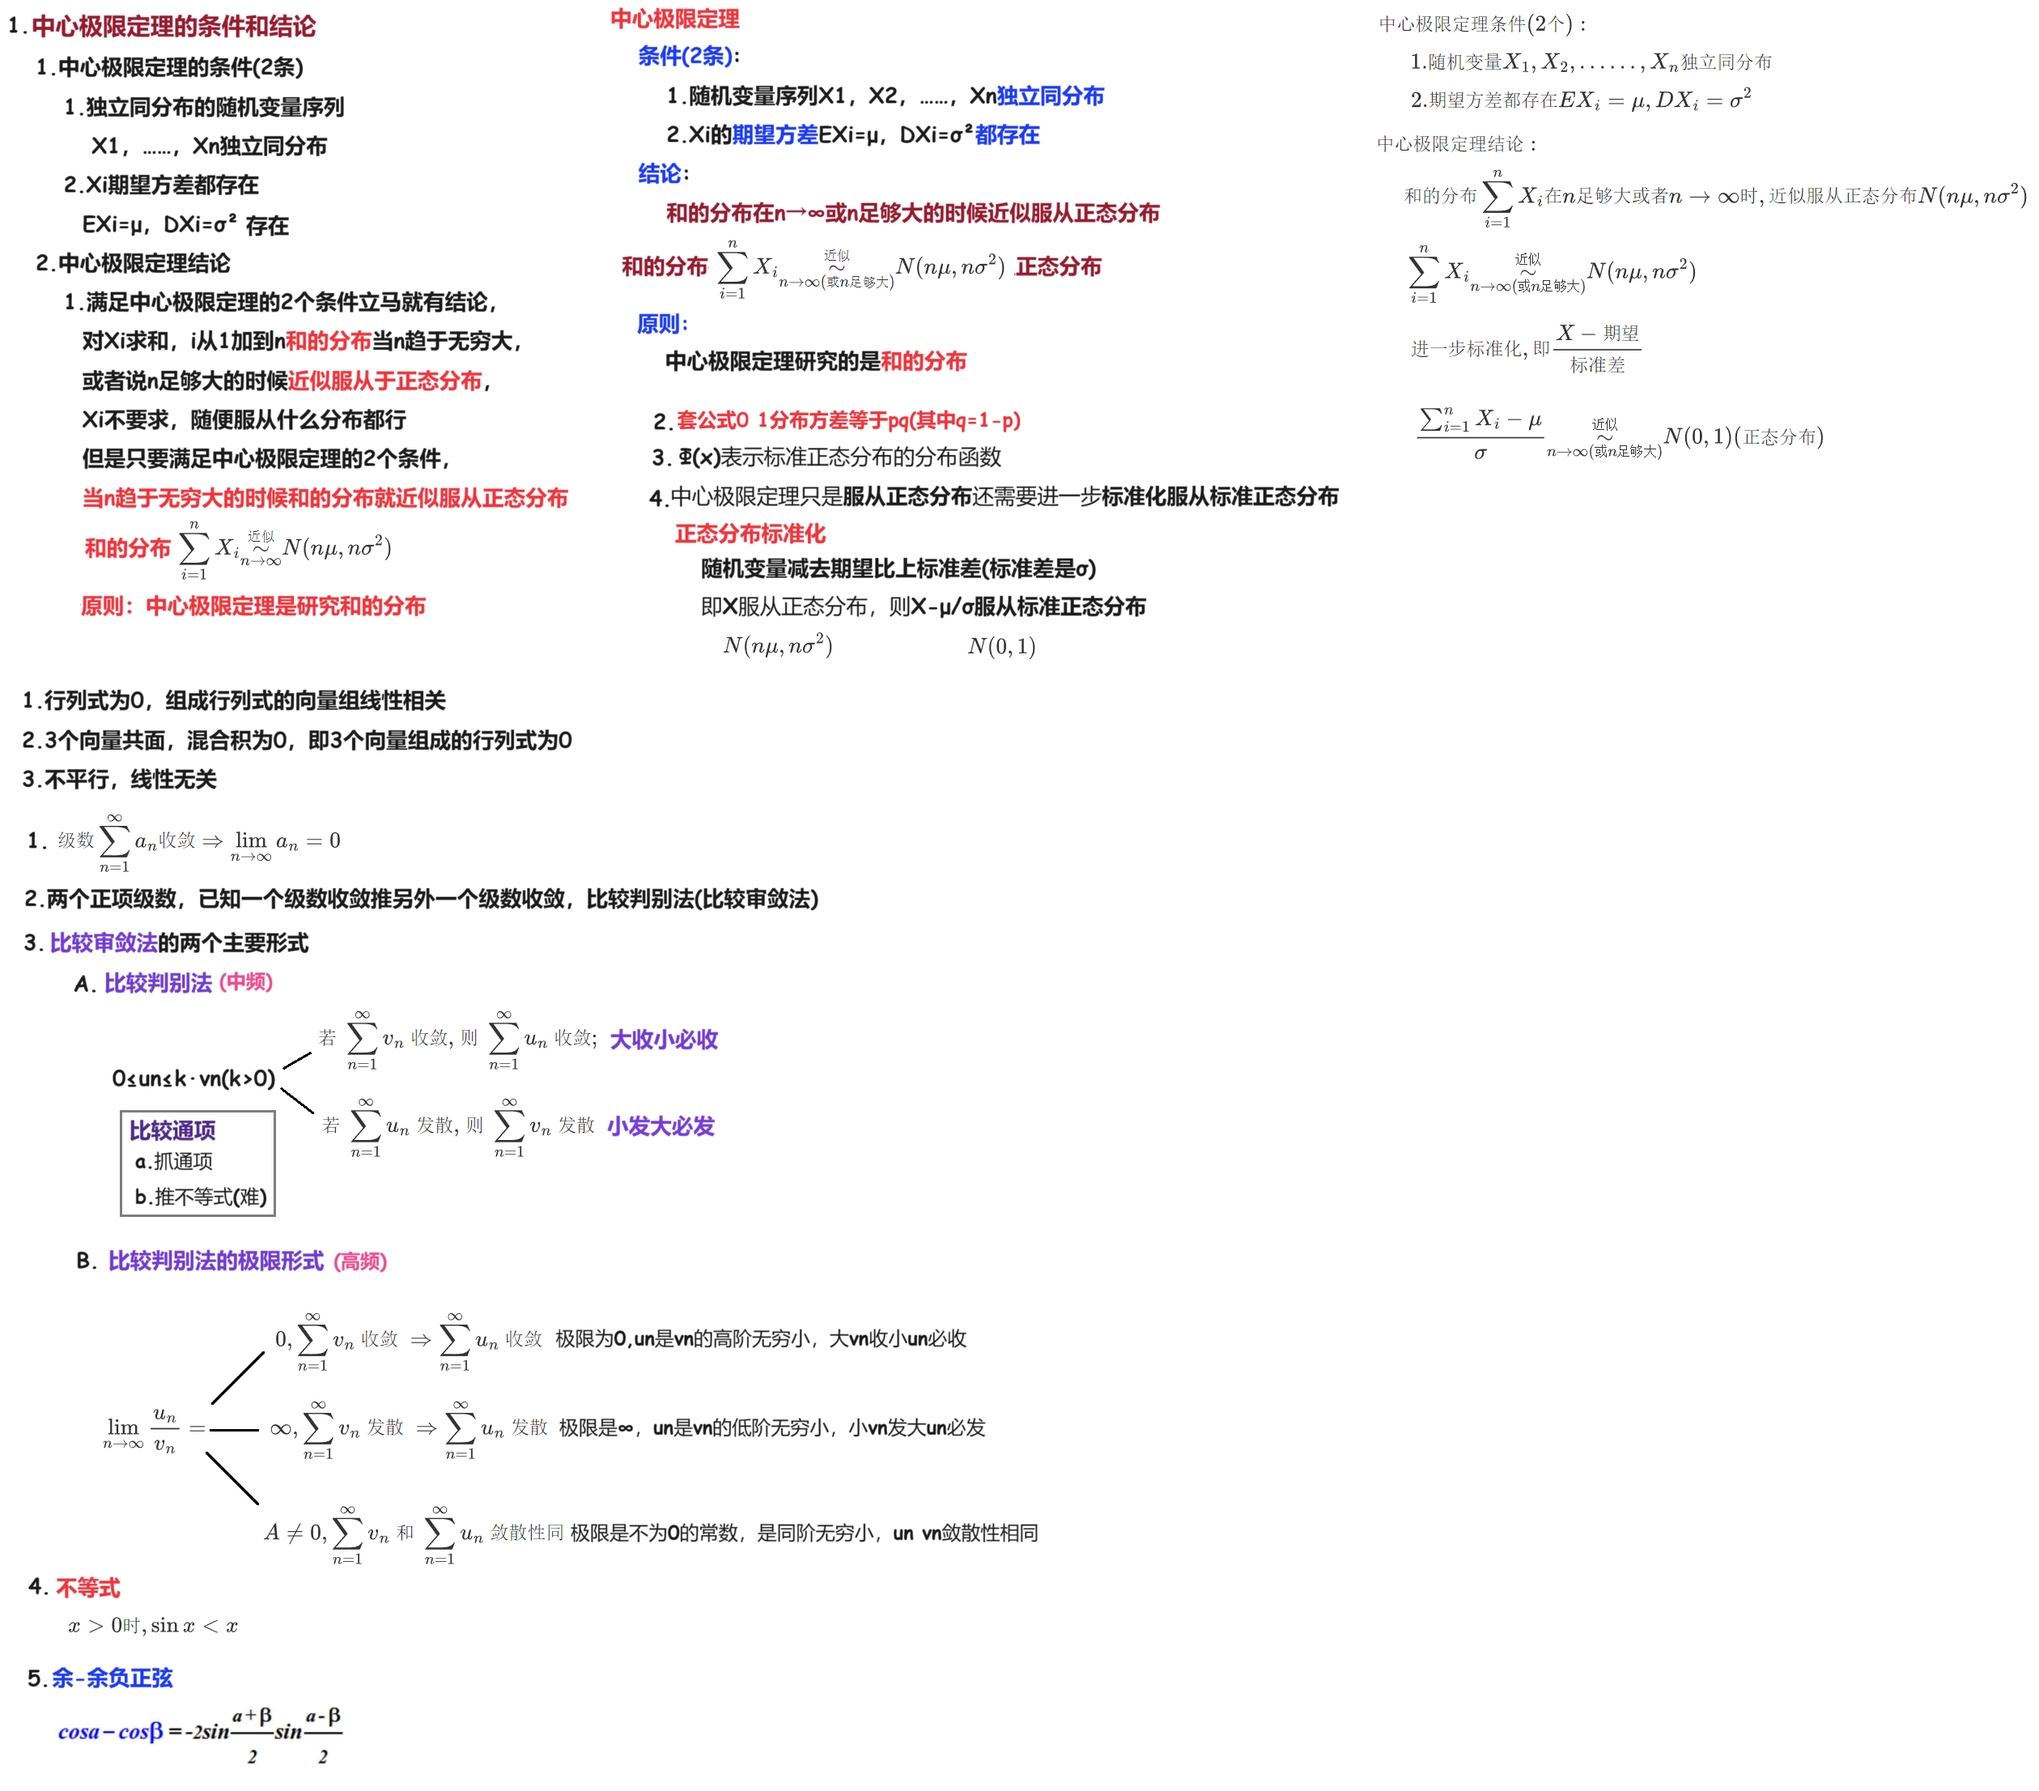
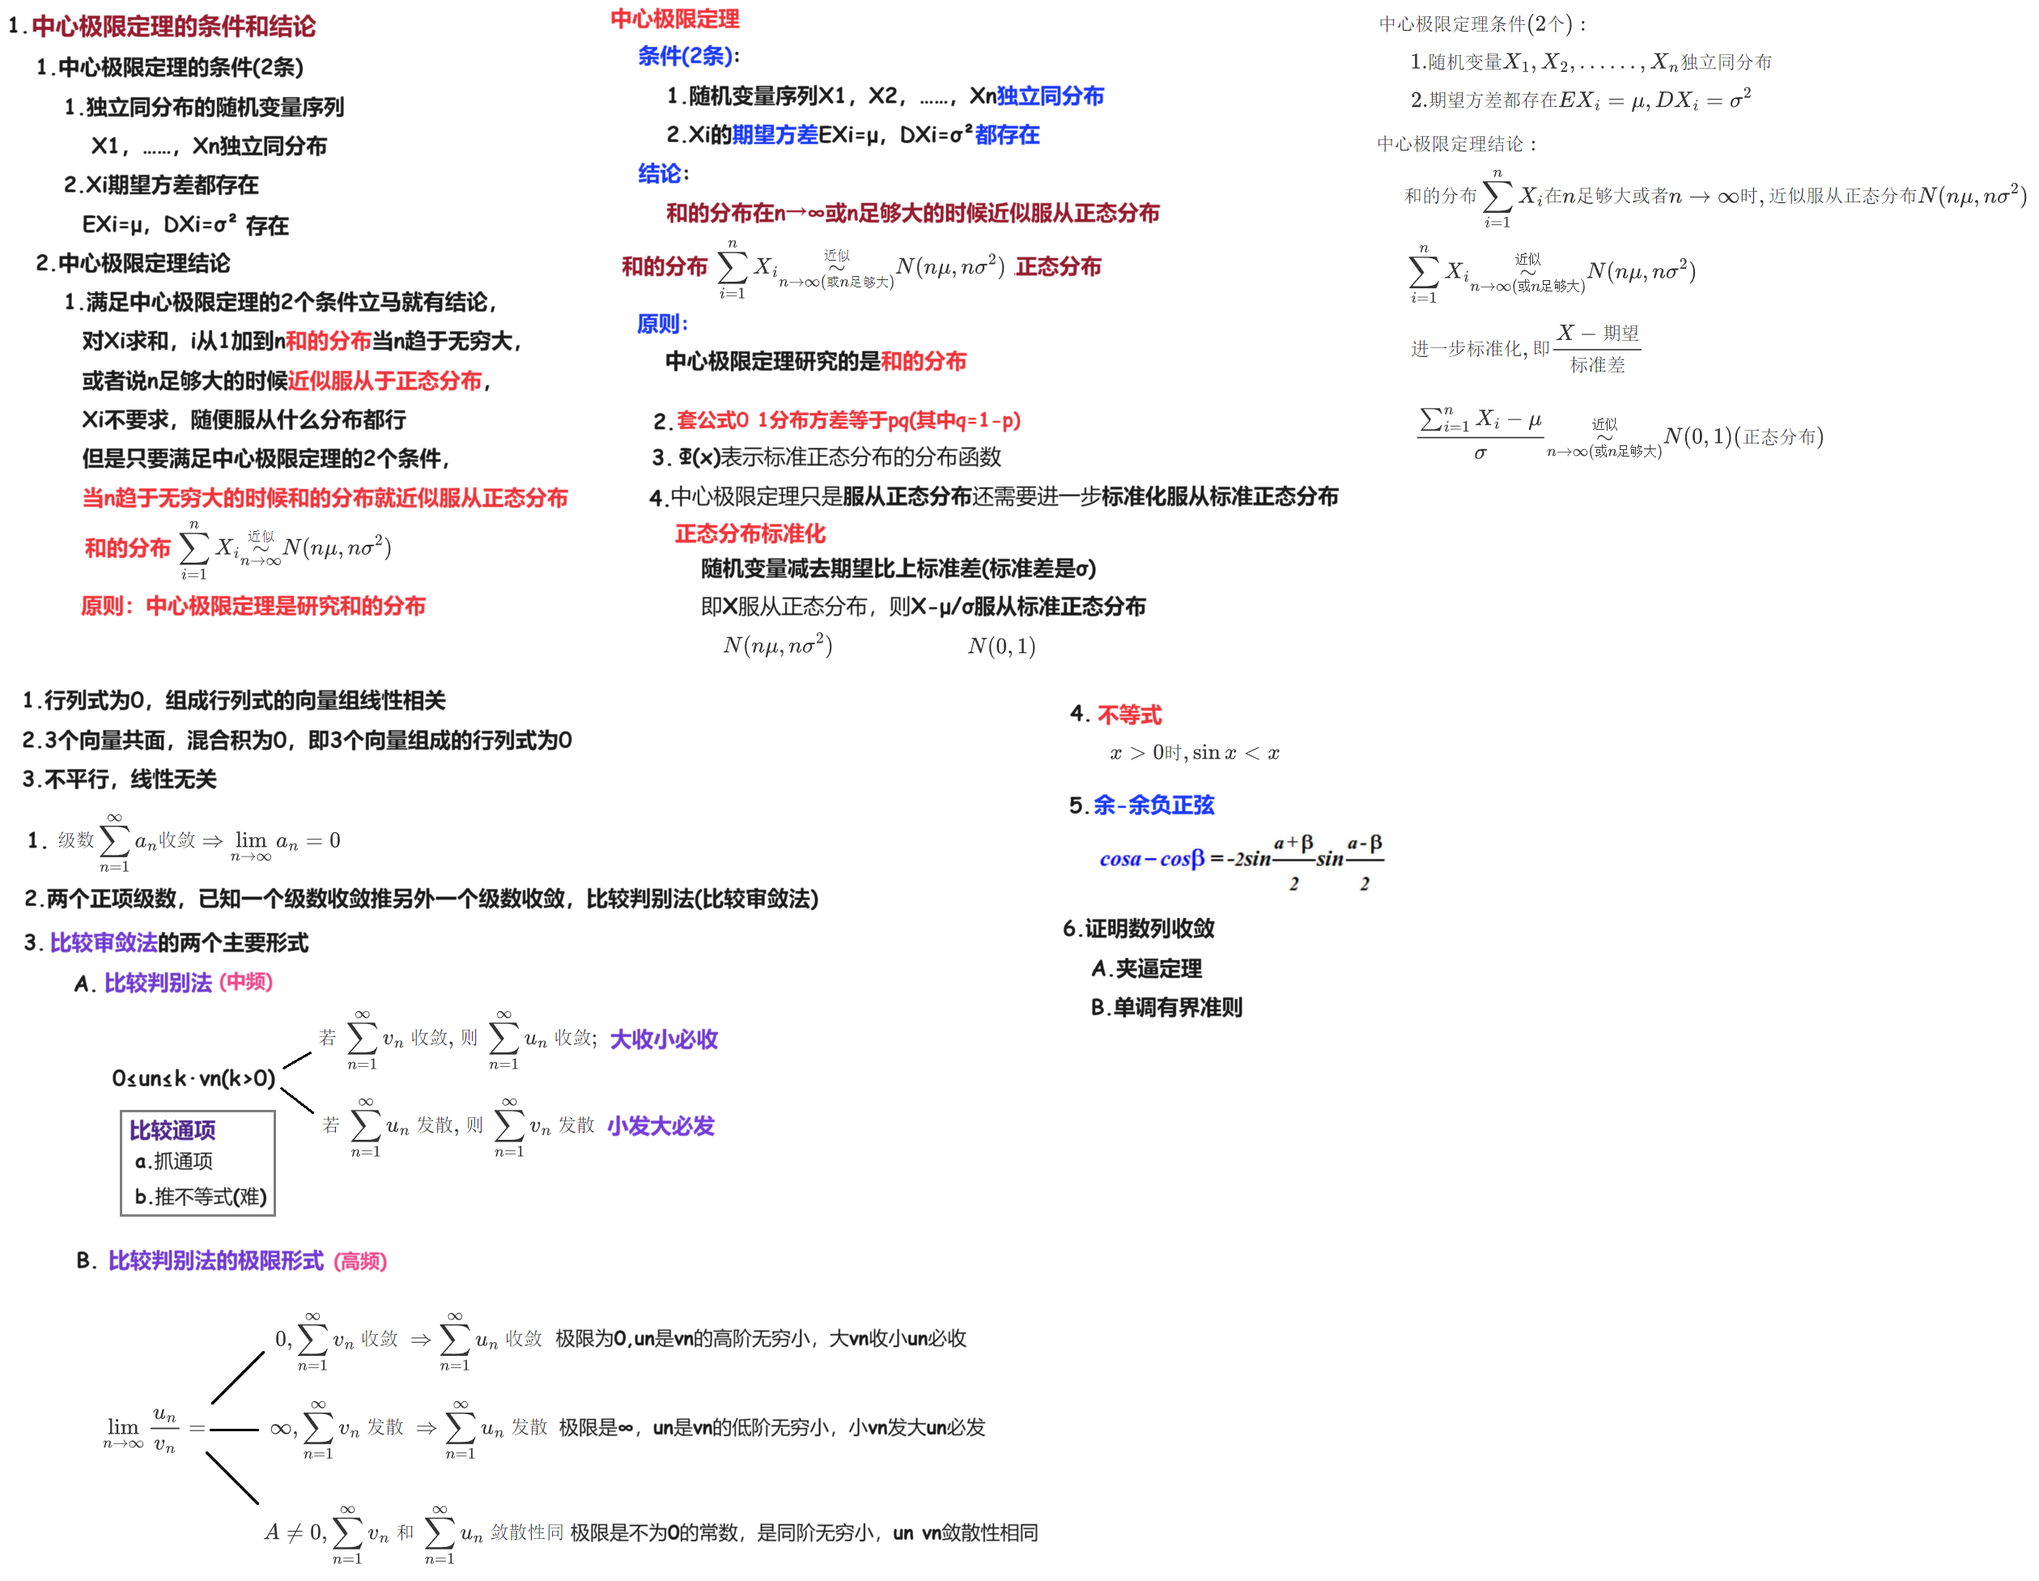
230929

diff --git a/05 每日一题/02 14T19【正项级数】230916 D2/01 Doc.md b/05 每日一题/02 14T19【正项级数】230916 D2/01 Doc.md
@@ -18,13 +18,21 @@
 
 # 00 背诵
 
-<img src="https://cvp.oss-cn-shanghai.aliyuncs.com/picgo/202309290925258.png" style="zoom:60%;" />
+<img src="https://cvp.oss-cn-shanghai.aliyuncs.com/picgo/202309291539077.png" alt="image-20230929153905980" style="zoom: 60%;" />
 
 
 
 # 01 题目
 
 # <img src="https://cvp.oss-cn-shanghai.aliyuncs.com/picgo/202308291159935.png" alt="image-20230829115922887" style="zoom: 60%;" />
+
+
+
+
+
+# 答案
+
+![image-20230929154840733](https://cvp.oss-cn-shanghai.aliyuncs.com/picgo/202309291548976.png)
 
 
 
